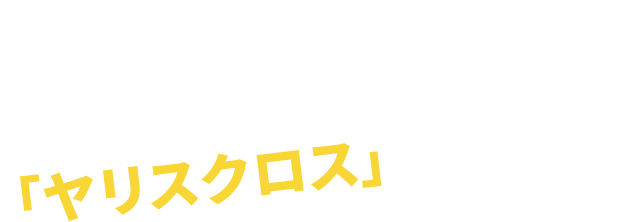
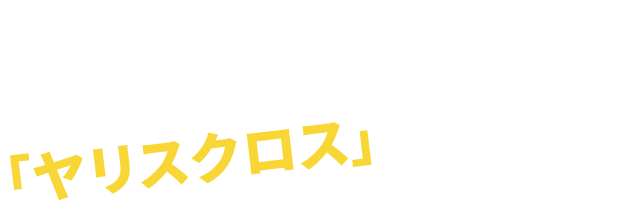
企画部修正内容

Changed region(s): [[0.0, 0.597, 0.6119, 1.0]]

diff --git a/src/sass/module/_firstview.scss b/src/sass/module/_firstview.scss
@@ -102,6 +102,7 @@ scroll first だけアニメーション
     position: relative;
     padding: 10px;
     padding: (10 / $sp_fix_width * 100vw);
+    overflow: hidden;
     @include setValue(padding-bottom, 150,"sp");
     @include pc-layout {
         // height: 700px;
@@ -171,8 +172,7 @@ scroll first だけアニメーション
         @include setValue(left, 10, "sp");
         @include setValue(top, 38, "sp");
         @include pc-layout {
-            // width: (1542px / 2);
-            width: 810px;
+            width: 776px;
             top: 5%;
             left: 5%;
         }

diff --git a/src/sass/module/_comparison.scss b/src/sass/module/_comparison.scss
@@ -8,6 +8,16 @@
     }
     &Visual {
         text-align: center;
+        @include img100;
+        img {
+            width: 95%;
+            margin: 0 auto;
+        }
+        @include pc-layout {
+            img {
+                width: auto;
+            }
+        }
     }
     &Block {
         @include setValue(margin-bottom, 40, "sp");

diff --git a/src/sass/module/_reason.scss b/src/sass/module/_reason.scss
@@ -59,7 +59,7 @@
         @include pc-layout {
             margin-bottom: 16px;
             img {
-                width: auto;
+                width: 100%;
             }
         }
     }

diff --git a/src/sass/module/_spec.scss b/src/sass/module/_spec.scss
@@ -5,6 +5,7 @@
     @include setValue(padding-top, 30, "sp");
     @include pc-layout {
         padding-top: 50px;
+        overflow: hidden;
     }
 
     &BtnWrp {
